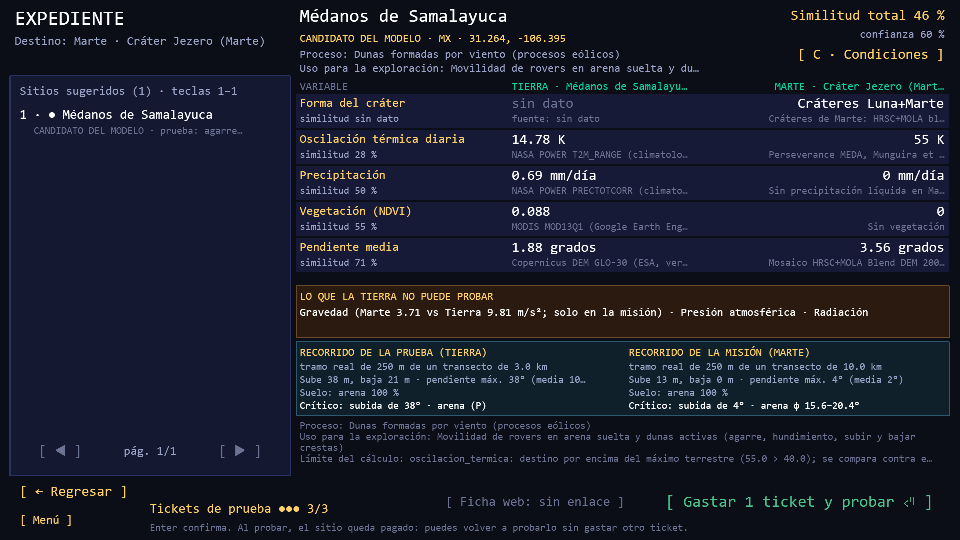
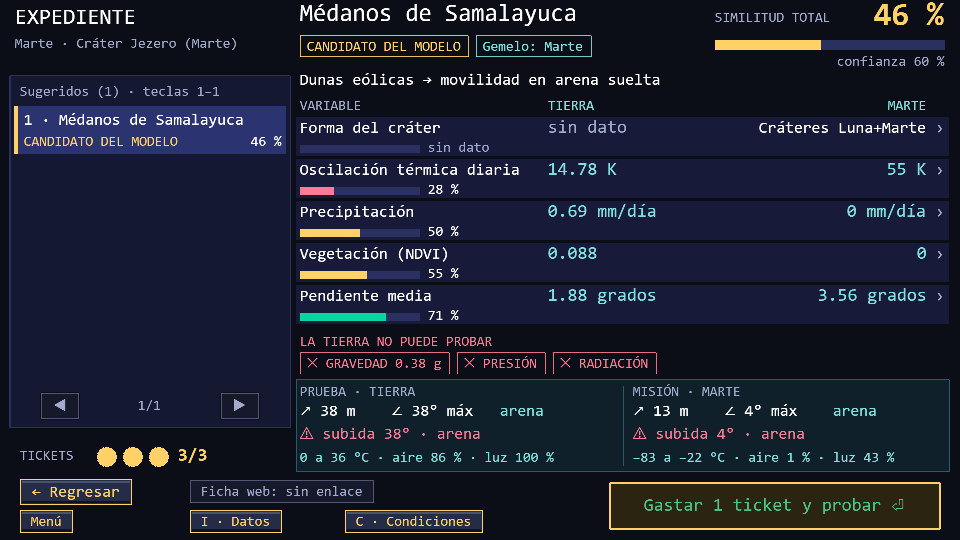
Prueba de 3 s: capturas con el rediseño de feat/juego (Menú, Cómo jugar, destino, Expediente)
- Se vuelven a tomar las capturas 01 a 06 en español a 960×540 y sin API; 07 y 08 (Explorador) no cambiaron.
- Las pantallas tienen el mismo nombre y orden: la tabla no cambia y las respuestas siguen vacías.
- Se quita la nota de "Expediente en rediseño": la captura ya muestra el rediseño.

diff --git a/docs/juego/PRUEBA_3S.md b/docs/juego/PRUEBA_3S.md
@@ -16,7 +16,8 @@
 Las capturas son de la versión en español a 960×540, sin la API del modelo (como en la demo publicada).
 Se regeneran con el recorrido Boot → portada → Menú → Nueva partida → Cómo jugar → elegir destino → Expediente → Explorador.
 
-> El Expediente lo está rediseñando otro agente (frente juego). Su captura es la versión actual; repítela cuando llegue el rediseño.
+> Las capturas ya incluyen el rediseño de Menú, Cómo jugar, Elegir destino y Expediente (frente juego, DISENO.md §3).
+> Si una pantalla cambia otra vez, vuelve a tomar su captura antes de la prueba.
 
 ## Resultados
 
